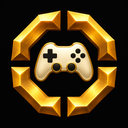
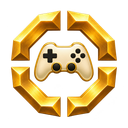
Release Enhanced Controller 1.0.0 with automatic CurseForge publishing

diff --git a/tools/release-version.py b/tools/release-version.py
@@ -1,0 +1,38 @@
+"""Compare the addon version with the PR base or the previous main commit."""
+import os
+from pathlib import Path
+import re
+import subprocess
+import sys
+
+ADDON = Path("WoWEnhancedController")
+TOC = ADDON / "WoWEnhancedController.toc"
+
+
+def version(text):
+    fields = re.findall(r"^## Version:[ \t]*(\S+)[ \t]*$", text, re.MULTILINE)
+    if len(fields) != 1 or not re.fullmatch(r"(?:0|[1-9][0-9]*)(?:\.(?:0|[1-9][0-9]*)){2}", fields[0]):
+        raise ValueError("Expected one TOC version in MAJOR.MINOR.PATCH format")
+    return fields[0]
+
+
+def main(base):
+    if not re.fullmatch(r"[0-9a-f]{40}", base):
+        raise ValueError("Expected a full base commit SHA")
+    old_toc = subprocess.check_output(["git", "show", f"{base}:{TOC.as_posix()}"], encoding="utf-8")
+    previous = version(old_toc)
+    current = version(TOC.read_text(encoding="utf-8"))
+    namespace = (ADDON / "Namespace.lua").read_text(encoding="utf-8")
+    if re.findall(r'^W\.name, W\.version = addonName, "([^"]+)"$', namespace, re.MULTILINE) != [current]:
+        raise ValueError("The TOC and Namespace.lua versions must match")
+    if tuple(map(int, current.split("."))) < tuple(map(int, previous.split("."))):
+        raise ValueError(f"Version decreased from {previous} to {current}")
+    changed = current != previous
+    print(f"{previous} -> {current} ({'release' if changed else 'unchanged'})")
+    if output := os.environ.get("GITHUB_OUTPUT"):
+        with open(output, "a", encoding="utf-8") as stream:
+            print(f"changed={str(changed).lower()}", f"version={current}", sep="\n", file=stream)
+
+
+if __name__ == "__main__":
+    main(sys.argv[1])

diff --git a/tools/export-branding.py b/tools/export-branding.py
@@ -8,10 +8,13 @@ media = root / "WoWEnhancedController/Media"
 exports.mkdir(parents=True, exist_ok=True)
 media.mkdir(parents=True, exist_ok=True)
 
-for name, source in (("suite-mark", "suite-mark-v1.png"), ("controller", "controller-icon-v1.png")):
+for name, source in (("suite-mark", "suite-mark-transparent-v2.png"), ("controller", "controller-icon-transparent-v2.png")):
     with Image.open(root / "branding/source" / source) as original:
         assert original.width == original.height, "Artwork must be square"
         image = original.convert("RGBA")
+        alpha = image.getchannel("A")
+        assert alpha.getextrema() == (0, 255), f"{source} must contain transparent and opaque pixels"
+        assert alpha.getpixel((0, 0)) == 0, f"{source} must have a clear background"
         image.resize((400, 400), Image.Resampling.LANCZOS).save(exports / (name + "-400.png"), optimize=True)
         if name == "controller":
             icon = image.resize((128, 128), Image.Resampling.LANCZOS)

diff --git a/branding/README.md b/branding/README.md
@@ -8,17 +8,19 @@ The four beveled gold crest segments identify the suite. The central symbol iden
 
 | File | Purpose |
 |---|---|
-| source/suite-mark-v1.png | 1254px original suite master |
-| source/controller-icon-v1.png | 1254px controller master |
+| source/suite-mark-v1.png | Original suite artwork on charcoal |
+| source/controller-icon-v1.png | Original controller artwork on charcoal |
+| [source/suite-mark-transparent-v2.png](source/suite-mark-transparent-v2.png) | Transparent suite master |
+| [source/controller-icon-transparent-v2.png](source/controller-icon-transparent-v2.png) | Transparent controller master |
 | source/suite-frame-transparent-v1.png | 1254px RGBA frame layer, clear center for future modules |
-| exports/suite-mark-400.png | Square suite avatar |
+| [exports/suite-mark-400.png](exports/suite-mark-400.png) | Transparent 400×400 suite avatar |
 | exports/suite-frame-preview.png | Transparent frame composited on black for preview only |
-| exports/controller-400.png | 400×400 PNG for CurseForge |
+| [exports/controller-400.png](exports/controller-400.png) | Transparent 400×400 PNG to upload as the Enhanced Controller project logo |
 | exports/controller-128.png | In-game export preview |
 | exports/controller-{20,32,64}.png | Small-size readability checks |
 | ../WoWEnhancedController/Media/Icon.tga | 128×128 uncompressed 32-bit RGBA game texture |
 
-CurseForge's [project submission guide](https://support.curseforge.com/support/solutions/articles/9000199552-project-submission-guide-and-tips) requests an original square PNG at least 400×400. The provided controller avatar is exactly 400×400. The larger sources stay outside the addon ZIP; only the small game texture ships in the addon.
+Use the controller avatar in the CurseForge project’s **Logo** field. It is exactly 400×400, as specified in the [CurseForge moderation policy](https://support.curseforge.com/support/solutions/articles/9000197279-moderation-policies). The suite avatar is for the addon family. Only the game texture ships in the addon ZIP.
 
 `tools/export-branding.py` performs uniform resampling and format conversion. It does not redraw the artwork. The transparent frame's alpha was checked over black and white; preserve alpha when reusing it. Some raw-image viewers show RGB values in nearly transparent edge pixels; normal alpha compositing renders the clean contour.
 
@@ -31,6 +33,13 @@ Forever source pin: `9dc84f0d3bbae1768ac3405b3716000bd93eda06` (1.60.1.70862). `
 ## Generation prompts
 
 Built-in image generation was used, not the API/CLI fallback. Source originals remain in the Codex generated_images folder as well as these workspace copies.
+
+### Transparent release masters (v2)
+
+The built-in tool edited each v1 master with transparent output enabled:
+
+- **Controller:** Use case: background-extraction. Edit target: the attached Enhanced Controller crest. Make a single square production icon by removing the black background from OUTSIDE AND INSIDE this four-piece gold crest and around the ivory controller. Keep the four gold angular metal pieces and controller (including its black D-pad, four black buttons and two sticks) as solid objects. Preserve the original silhouettes, spacing, centered placement, scale (~83% of canvas), gold bevels and ivory material. Remove background glow, colored fringe and cast shadows. Smooth antialiased contours on genuinely transparent alpha, including through all four open gaps and below the controller. No enclosing shape, checkerboard, lettering, new decorations or redesign.
+- **Suite:** Use case: background-extraction. Edit target: the attached suite crest. Make a single square production icon by removing the black background from OUTSIDE AND INSIDE the gold crest and around the central four-point spark. Keep only the four existing beveled gold metal corner pieces and the solid gold/ivory four-point spark. Preserve their original silhouettes, spacing, centered placement, scale (~83% of canvas), lighting and gold material. Remove the diffuse outer glow around the spark as well as any background shadows/fringe. The star's sharp points should be clean on light as well as dark surfaces. Smooth antialiased contours on genuinely transparent alpha. No enclosing shape, checkerboard, lettering, new decorations or redesign.
 
 ### Suite master
 

diff --git a/README.md b/README.md
@@ -4,7 +4,7 @@ A controller keyboard, macro creator and party/raid spell wheel for **WoW Foreve
 
 ## Install
 
-Extract `dist/WoWEnhancedController-0.20.2-forever.zip` into the Forever client's `Interface/AddOns` folder. To create the ZIP from a checkout, follow the build instructions below. The resulting file is `Interface/AddOns/WoWEnhancedController/WoWEnhancedController.toc`. Use `/reload` after updating. Restart WoW when upgrading from the older keyboard-only releases to load the radial files. If CompactKeyboard is installed, disable one of the two keyboards before reloading; this addon detects the conflict without disabling other addons or changing saved bindings/CVars.
+Extract the Forever ZIP from [GitHub Releases](https://github.com/JBurlison/WoWEnhancedController/releases) into the Forever client's `Interface/AddOns` folder. To create the ZIP from a checkout, follow the build instructions below. The resulting file is `Interface/AddOns/WoWEnhancedController/WoWEnhancedController.toc`. Use `/reload` after updating. Restart WoW when upgrading from the older keyboard-only releases to load the radial files. If CompactKeyboard is installed, disable one of the two keyboards before reloading; this addon detects the conflict without disabling other addons or changing saved bindings/CVars.
 
 Version 0.15.0 routes keyboard controller buttons through temporary bindings, including trigger-modified combinations, to prevent the same press reaching gameplay while typing. Closing the keyboard, losing focus or entering combat releases its bindings; a held button is swallowed until release. Saved bindings are unchanged. All 175 automated checks pass, and UIForever verifies binding ownership and cleanup without Lua errors. The reported casting leak still needs a physical-controller retest in the current client. See the [binding audit](docs/plans/minimap-launcher/KEYBOARD-BINDING-OWNERSHIP.md).
 
@@ -178,7 +178,9 @@ python tools/validate-package.py
 
 The validator checks the TOC, binding headers, artwork format and exact ZIP contents, then writes `dist/manifest.json` with SHA-256 hashes. Generated packages, local caches and private design evidence are excluded from Git.
 
-The shipped branding assets are ready to use. Regenerating their size/format exports with `python tools/export-branding.py` additionally requires Pillow (`python -m pip install Pillow`).
+To release a new version, update `## Version` in the TOC and `W.version` in `Namespace.lua` to the same, higher `MAJOR.MINOR.PATCH` and open a PR to `main`. The **Addon release** check tests the addon and attaches the validated Forever ZIP and its checksum to the workflow run. When the version bump reaches `main`, GitHub Actions tests and builds that commit, pushes its `v<version>` tag, and publishes the GitHub Release. The tag push triggers [CurseForge project 1800162](https://www.curseforge.com/wow/addons/enhanced-controller) to package the addon for distribution.
+
+For the CurseForge project logo, upload [controller-400.png](branding/exports/controller-400.png), the transparent 400×400 controller crest. The [branding guide](branding/README.md) lists the matching suite mark and game texture. To regenerate the exports, install Pillow (`python -m pip install Pillow`) and run `python tools/export-branding.py`.
 The radial geometry exports are reproducible with `python tools/export-radial-art.py` using Pillow; labels, hit regions, spell/class art and controller prompts are separate native widgets.
 
 Version 0.4.0 adds the Settings wheel preview and spell/macro pickers. Picker/draft tests cover active learned spells, known flyouts, rank IDs, macro scope and slot shifts, search/paging, controller callbacks, UTF-8 labels, explicit saves and legacy/custom macros. UIForever checks and installation evidence are recorded in the task matrix.
